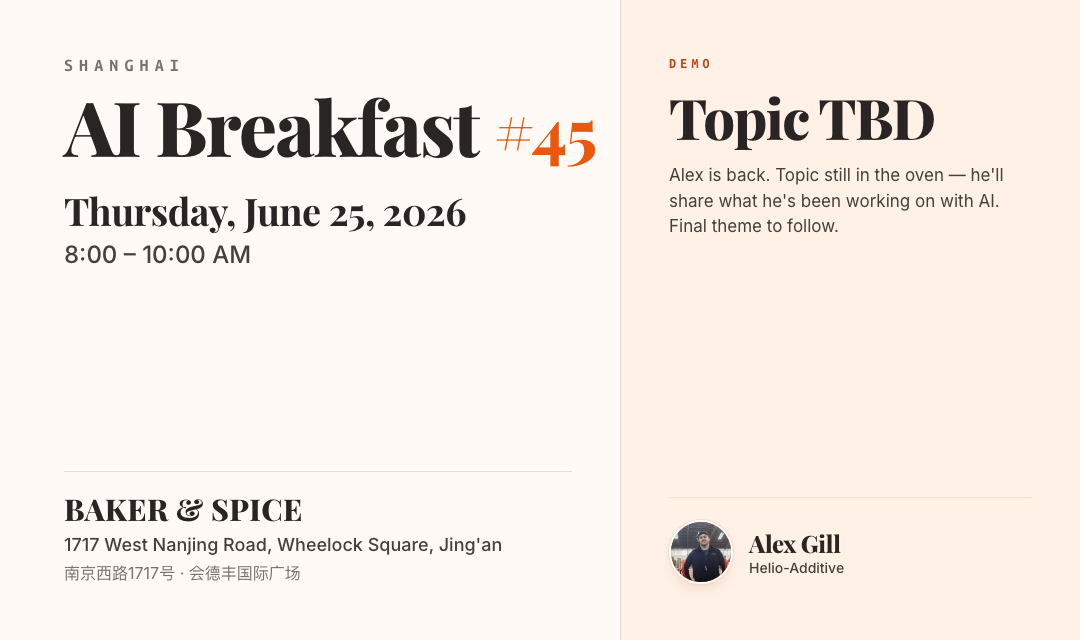
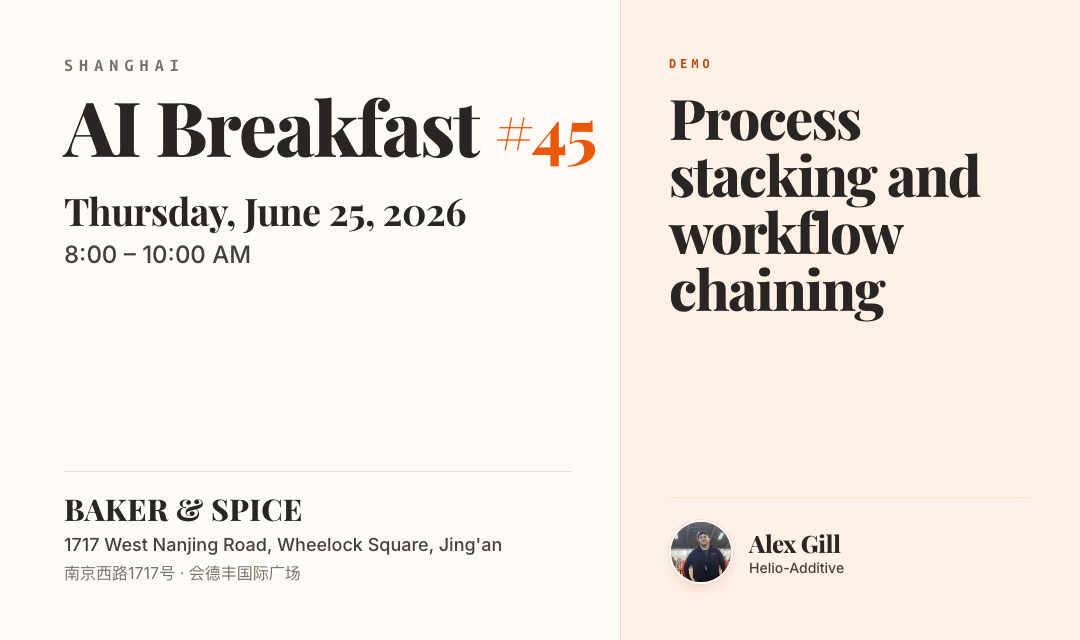
Set #45 demo title to "Process stacking and workflow chaining"
Drops the placeholder blurb across poster.html, poster-qr.html, and
banner.html; updates event.md to match. PNGs re-rendered.

Changed region(s): [[0.6111, 0.1562, 0.9472, 0.5]]

diff --git a/events/2026/ai-breakfast-45/poster.html b/events/2026/ai-breakfast-45/poster.html
@@ -2,7 +2,7 @@
 <html lang="en">
   <head>
     <meta charset="utf-8" />
-    <title>AI Breakfast #45 — Topic TBD</title>
+    <title>AI Breakfast #45 — Process stacking and workflow chaining</title>
     <link rel="preconnect" href="https://fonts.googleapis.com" />
     <link rel="preconnect" href="https://fonts.gstatic.com" crossorigin />
     <link
@@ -312,10 +312,7 @@
             <div class="beat-time">8:30</div>
             <div class="card">
               <div class="card-label">Demo</div>
-              <div class="card-title">Topic TBD</div>
-              <div class="card-blurb">
-                Alex is back. Topic still in the oven — he'll share what he's been working on with AI. Final theme to follow.
-              </div>
+              <div class="card-title">Process stacking and workflow chaining</div>
               <div class="byline">
                 <img class="avatar" src="images/speakers/alex.jpeg" alt="Alex Gill" />
                 <div class="meta">

diff --git a/events/2026/ai-breakfast-45/poster-qr.html b/events/2026/ai-breakfast-45/poster-qr.html
@@ -338,10 +338,7 @@
             <div class="beat-time">8:30</div>
             <div class="card">
               <div class="card-label">Demo</div>
-              <div class="card-title">Topic TBD</div>
-              <div class="card-blurb">
-                Alex is back. Topic still in the oven — he'll share what he's been working on with AI. Final theme to follow.
-              </div>
+              <div class="card-title">Process stacking and workflow chaining</div>
               <div class="byline">
                 <img class="avatar" src="images/speakers/alex.jpeg" alt="Alex Gill" />
                 <div class="meta">

diff --git a/events/2026/ai-breakfast-45/banner.html b/events/2026/ai-breakfast-45/banner.html
@@ -256,10 +256,7 @@
       <div class="right">
         <div>
           <div class="demo-label">Demo</div>
-          <div class="demo-title">Topic TBD</div>
-          <div class="demo-blurb">
-            Alex is back. Topic still in the oven — he'll share what he's been working on with AI. Final theme to follow.
-          </div>
+          <div class="demo-title">Process stacking and workflow chaining</div>
         </div>
         <div class="byline">
           <img class="avatar" src="images/speakers/alex.jpeg" alt="Alex Gill" />

diff --git a/events/2026/ai-breakfast-45/event.md b/events/2026/ai-breakfast-45/event.md
@@ -10,10 +10,8 @@
 
 ## This Week's Demo
 
-**Title:** Topic TBD
+**Title:** Process stacking and workflow chaining
 **Speaker:** Alex Gill — Lead Software Architect, Helio-Additive
-
-Alex is back. Topic still in the oven — he'll share what he's been working on with AI. Final theme to follow.
 
 ## Agenda
 
